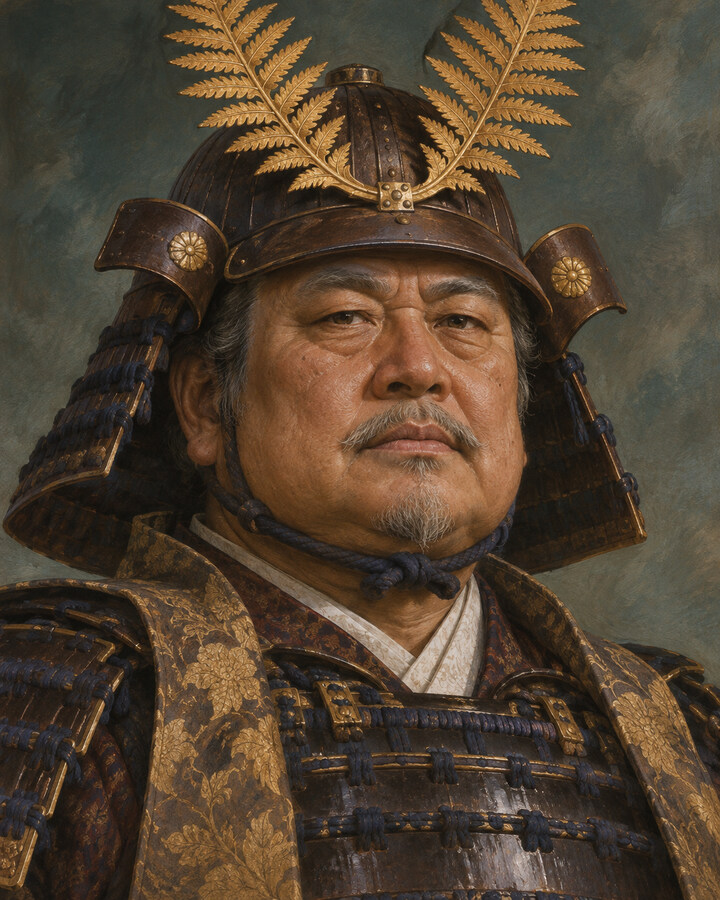
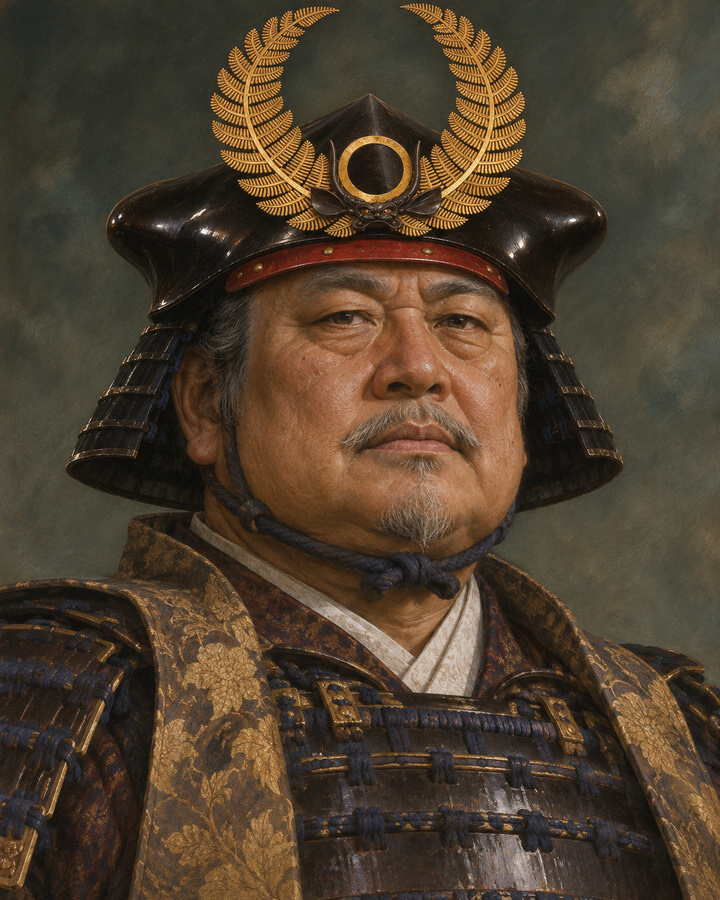
島津義弘の画調を統一し、家康の兜を伝来の歯朶具足に合わせる

Changed region(s): [[0.0, 0.0, 0.9167, 0.6533], [0.275, 0.5289, 0.3056, 0.5911]]

diff --git a/GPT/memory/projects/sekigahara/20261128_historical_review.md b/GPT/memory/projects/sekigahara/20261128_historical_review.md
@@ -122,3 +122,9 @@
 | 蒲生郷舎 | 平たい天板と大きな鋲が特徴の、鉄錆色の置手拭形兜。 | 同時代の作例から選んだ想像図。郷舎の所用品を特定する資料は今回確認できなかった。[文化遺産オンライン・桃山期の鉄錆地置手拭形兜](https://online.bunka.go.jp/heritages/detail/205118) |
 | 島津義弘 | 金の大きな前立と丸に十の字で描いた従来の姿。 | 指定された加野厚志の書籍表紙に沿った意匠。今回確認した資料からは、表紙の兜を当日着用したことまでは裏付けられない。 |
 | 島津豊久 | 白鉢巻と赤い陣羽織を着けた若い薩摩武将。 | 指定された人物像に沿った創作。鉢巻の色や陣羽織は当日の装束としては未確認。 |
+
+### 徳川家康の兜
+
+久能山東照宮に伝わる家康所用の歯朶具足を参照した。兜の鉢は黒漆塗りの鉄を頭巾のように打ち出したもので、正面から見ると頂が左右へ張る。前立は下に黒漆の獅噛、その上に輪形の日輪があり、左右から金箔を押した革の歯朶が内向きに伸びる。静岡市美術館の展示写真では兜本体と前立を別々に確認できる。図鑑ではこの二つを組み合わせた姿を描いた。[文化庁の指定品解説](https://kunishitei.bunka.go.jp/heritage/detail/201/6926)・[静岡市美術館の展示図版・第4章](https://shizubi.jp/exhibition/20231103_ieyasu/231103_02.php)
+
+ゲームでの描き方は『信長の野望 出陣』の家康も参照した。シリーズの武将画を手がけた制作者は、若い頃の金溜塗具足と関ヶ原の歯朶具足を描き分けた例を挙げている。[『出陣』公式の家康の図像](https://x.com/nobu_shutsujin/status/2026935705310806070)・[制作者インタビュー](https://www.4gamer.net/games/635/G063555/20251031036/index_2.html)
